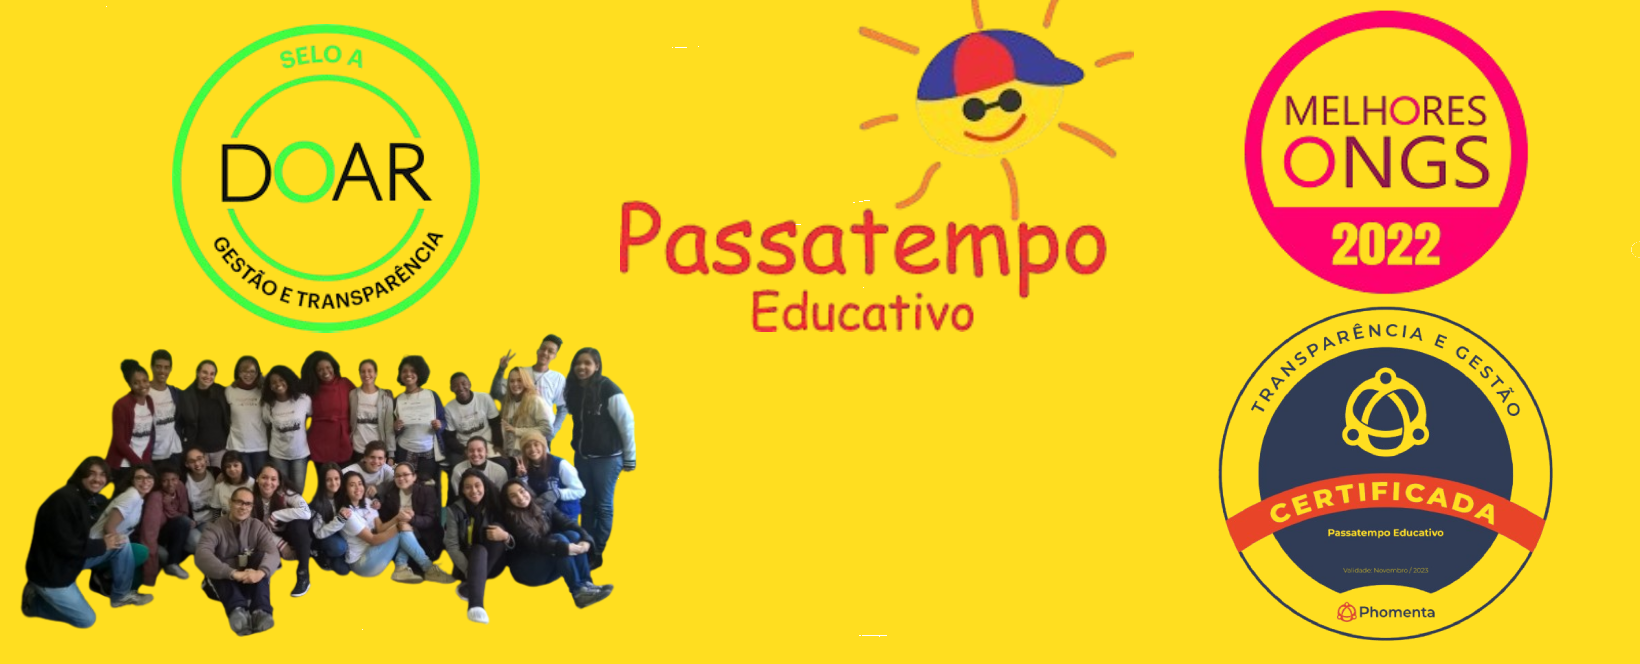
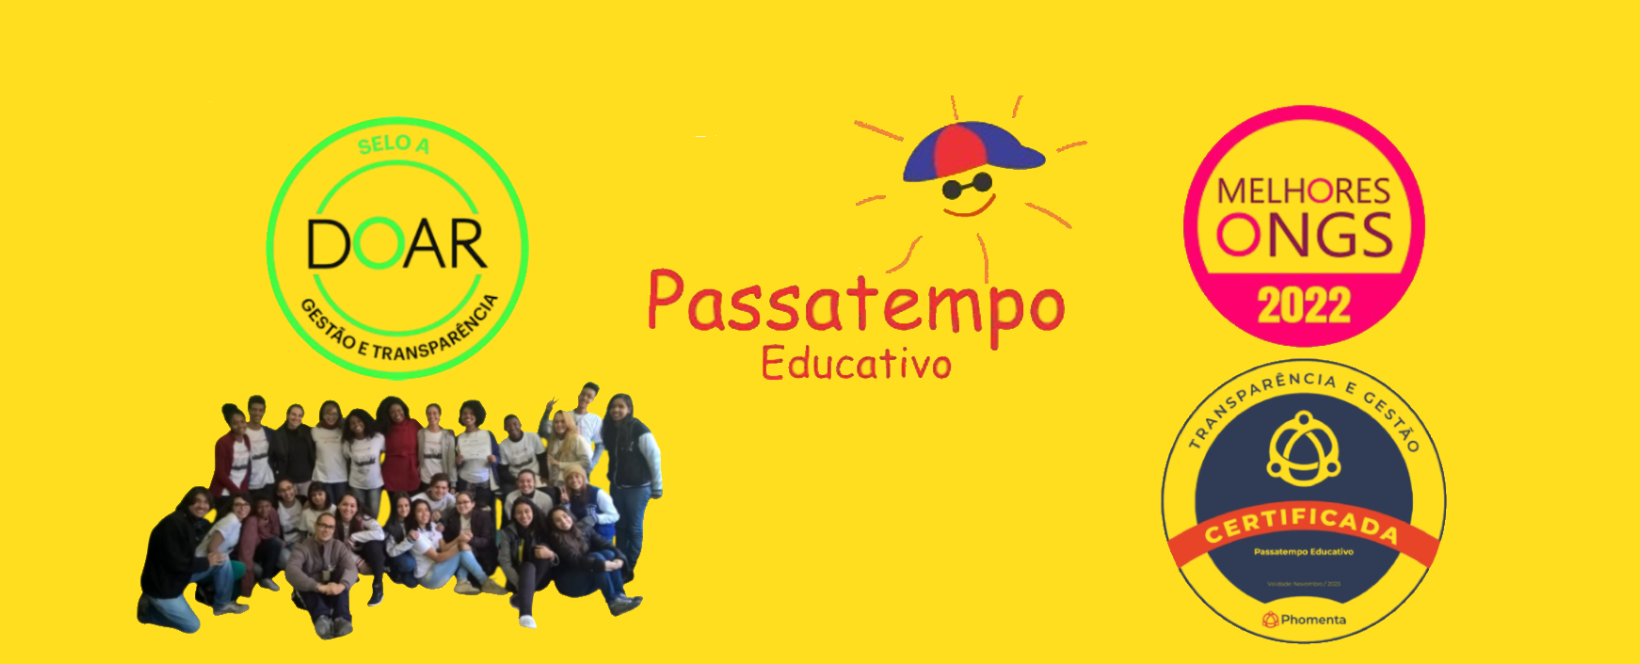
mudança de imagem Passatempo

Changed region(s): [[0.0, 0.0301, 0.4043, 0.9639], [0.7152, 0.0, 0.964, 0.994], [0.3732, 0.0, 0.6841, 0.5723]]

diff --git a/Site/Css/jogoteca-style.css b/Site/Css/jogoteca-style.css
@@ -6,7 +6,7 @@
     right: 0; 
     bottom: 0;
     background-attachment: fixed;
-    background-image: url(../Imagens/FundoPassatempo.png);
+    background-image: url(../Imagens/FundoPassatempoV2.jpg);
     background-repeat: no-repeat;
     background-size: cover;
     background-position: center;
